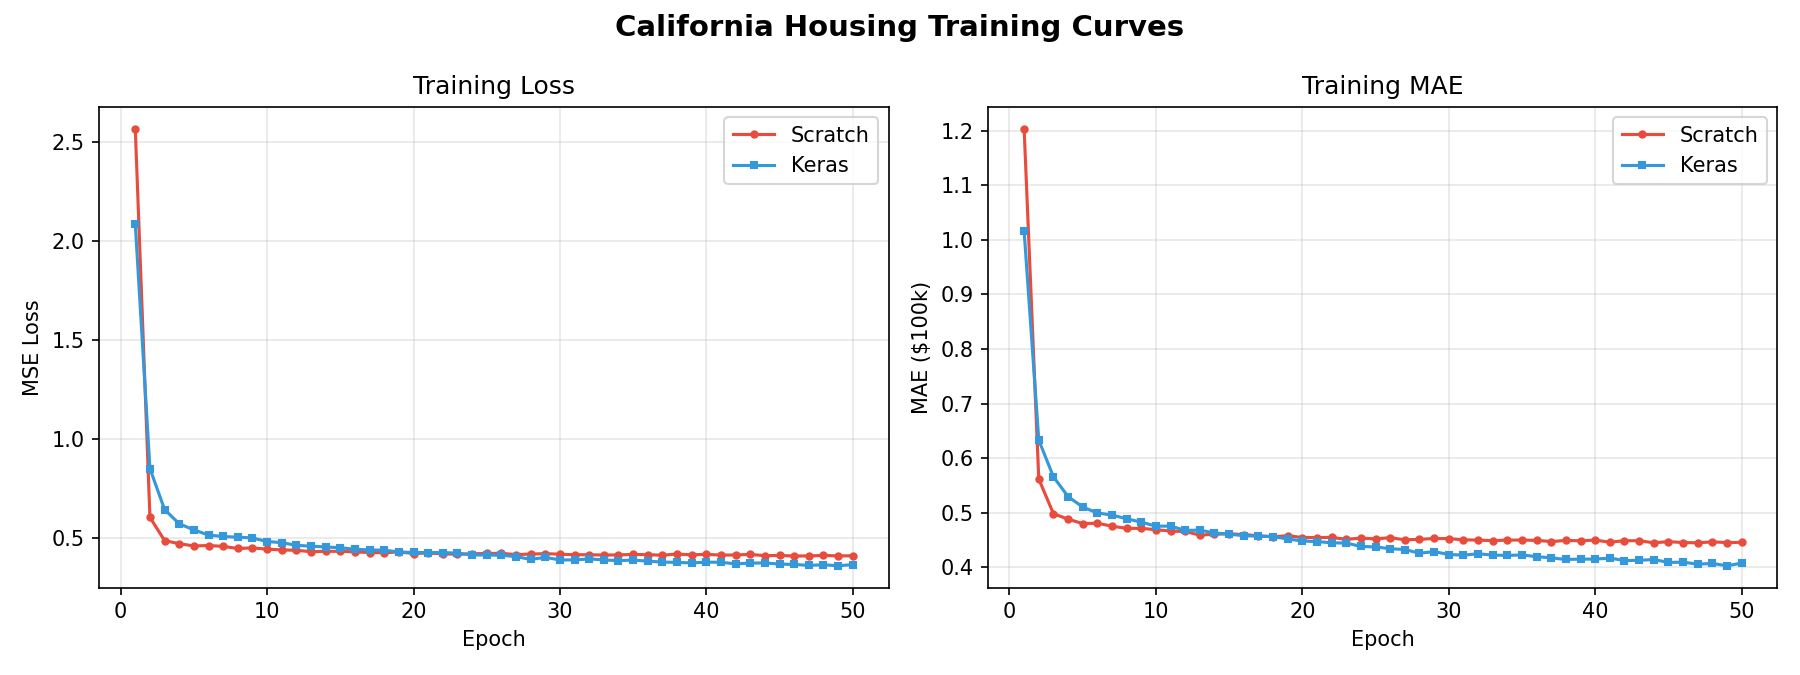
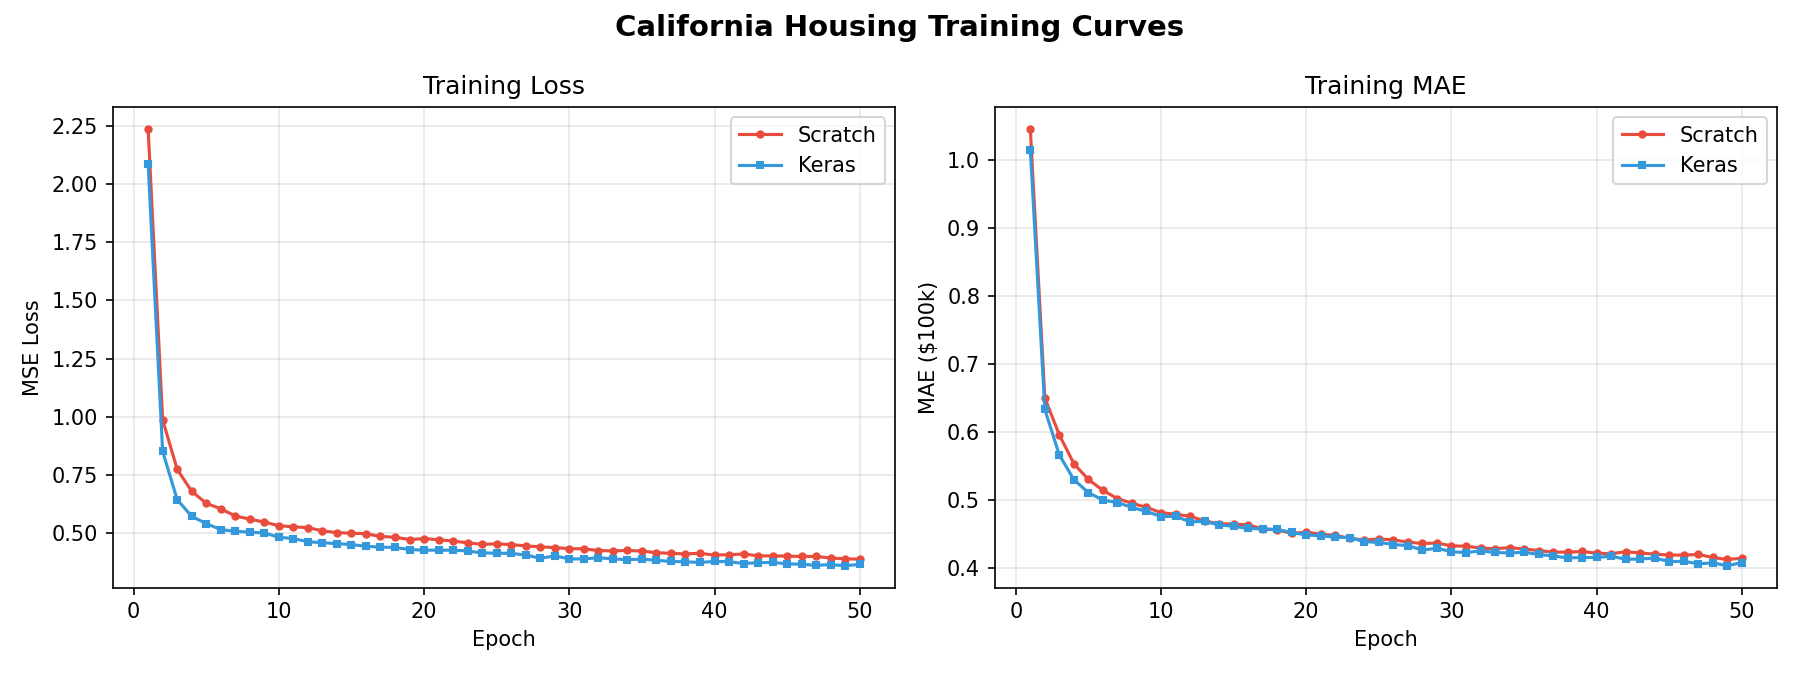
feat: improve California Housing with He initialization, beating Keras on MSE
switch hidden layer weights to He initialization (sqrt(2/n)), improving
scratch R² from 0.690 to 0.750 and MSE from 0.417 to 0.337, surpassing
the Keras baseline (0.351) on test loss

diff --git a/california_housing/train_scratch.py b/california_housing/train_scratch.py
@@ -34,10 +34,12 @@ y_test = y_test.reshape(-1, 1).astype(np.float32)
 
 # 8 -> 64 -> 32 -> 1
 dense1 = DenseLayer(8, 64, weight_regularization_l2=5e-4, bias_regularization_l2=5e-4)
+dense1.weights = np.random.randn(8, 64) * np.sqrt(2.0 / 8)
 activation1 = Activation_ReLU()
 dropout1 = DropoutLayer(0.1)
 
 dense2 = DenseLayer(64, 32, weight_regularization_l2=5e-4, bias_regularization_l2=5e-4)
+dense2.weights = np.random.randn(64, 32) * np.sqrt(2.0 / 64)
 activation2 = Activation_ReLU()
 dropout2 = DropoutLayer(0.1)
 
